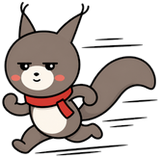
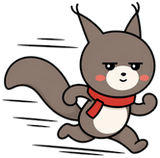
資料館ダッシュ：コトニちゃんを進む向き（右）に走らせる

diff --git a/assets/run.js b/assets/run.js
@@ -12,7 +12,7 @@
   const shuffle = a => { a = a.slice(); for (let i = a.length - 1; i > 0; i--) { const j = Math.random() * (i + 1) | 0; [a[i], a[j]] = [a[j], a[i]]; } return a; };
   const URL_ = (document.querySelector('link[rel=canonical]') || {}).href || location.href;
   const img = src => { const i = new Image(); i.src = src; return i; };
-  const SPR = { kotoni: img('images/game/kotoni_run.png'), shima: img('images/game/shima.png') };
+  const SPR = { kotoni: img('images/game/kotoni_run.png?v=2'), shima: img('images/game/shima.png') };
   const face = (w, n) => `images/chars/${w}_face${n}.png`;
   // flow=true：キャンバスを隠して、パネルを普通の流れで出す（クイズ・結果・休み）
   function showOv(html, flow) { ov.innerHTML = html; ov.hidden = false; wrap.classList.toggle('flow', !!flow); }
@@ -312,7 +312,7 @@
     }
     const f = '800 16px "M PLUS Rounded 1c", sans-serif';
     cx.font = f; cx.textBaseline = 'top'; cx.textAlign = 'left';
-    cx.fillStyle = 'rgba(22,16,11,.65)'; cx.beginPath(); cx.roundRect ? cx.roundRect(10, 10, 210, 58, 12) : cx.rect(10, 10, 210, 58); cx.fill();
+    cx.fillStyle = 'rgba(22,16,11,.65)'; cx.beginPath(); cx.roundRect ? cx.roundRect(10, 10, 210, 66, 12) : cx.rect(10, 10, 210, 66); cx.fill();
     cx.fillStyle = '#fff1d6'; cx.fillText(`${Math.floor(st.score + st.dist)} 点`, 22, 18);
     cx.fillStyle = '#e0533f'; cx.fillText('♥'.repeat(Math.max(0, st.lives)) + '♡'.repeat(Math.max(0, 3 - st.lives)), 130, 18);
     // カード 5枚

diff --git a/run.html b/run.html
@@ -54,7 +54,7 @@
         <canvas id="runCanvas" tabindex="0" aria-label="資料館ダッシュのゲーム画面。タップかスペースキーでジャンプ"></canvas>
         <div class="run-ov" id="runOverlay">
           <div class="run-card">
-            <img class="run-hero" src="images/game/kotoni_run.png" alt="">
+            <img class="run-hero" src="images/game/kotoni_run.png?v=2" alt="">
             <p class="run-gate">資料館ダッシュ</p>
             <p class="run-how"><b>タップ</b>（パソコンは<b>スペース</b>）でジャンプ。<b>2回</b>で2段ジャンプ。本の山をよけて「？」を<b>5枚</b>集めると、なぜなぜゲート。クイズに正解すると<b>バリア</b>。</p>
             <p class="run-q">ゲートで出るクイズは、どっち？</p>
